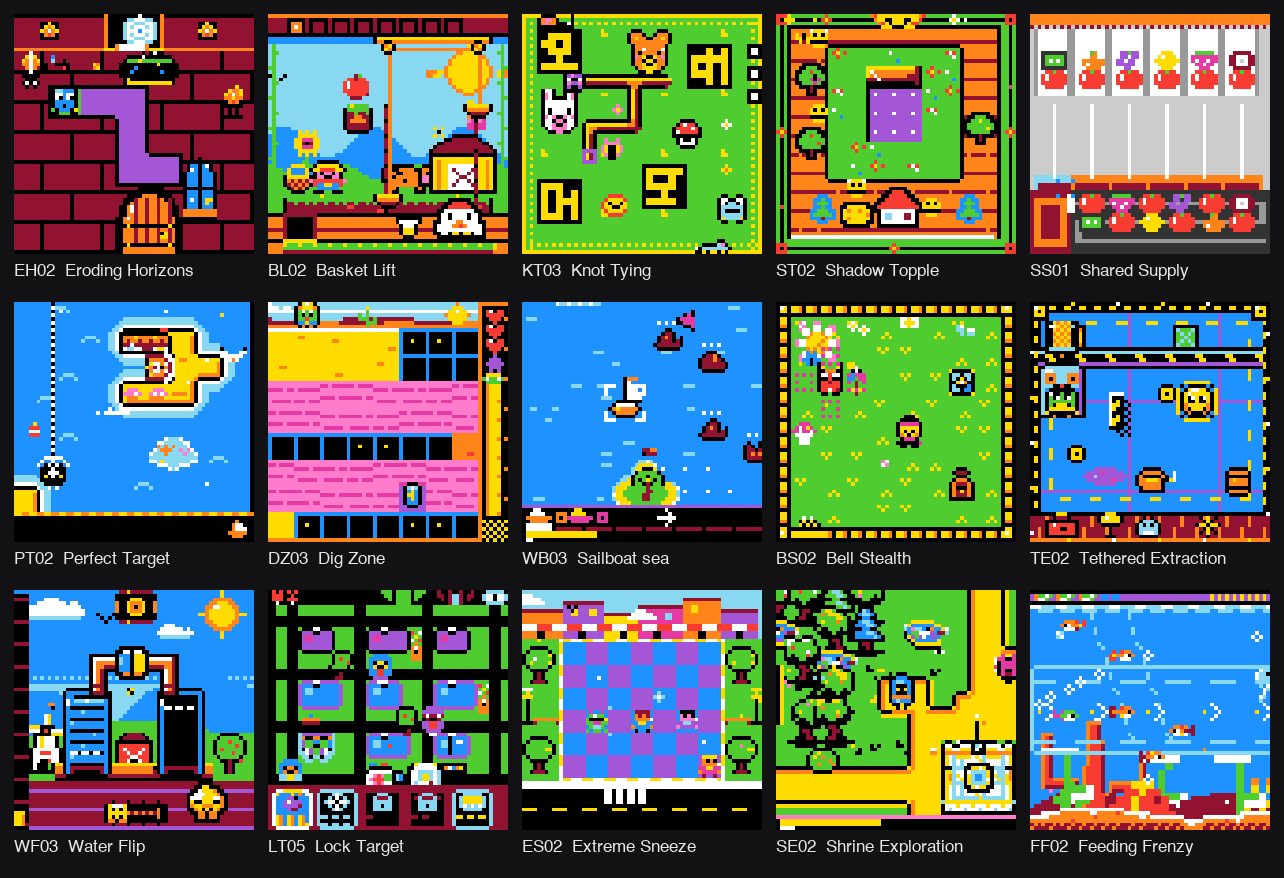
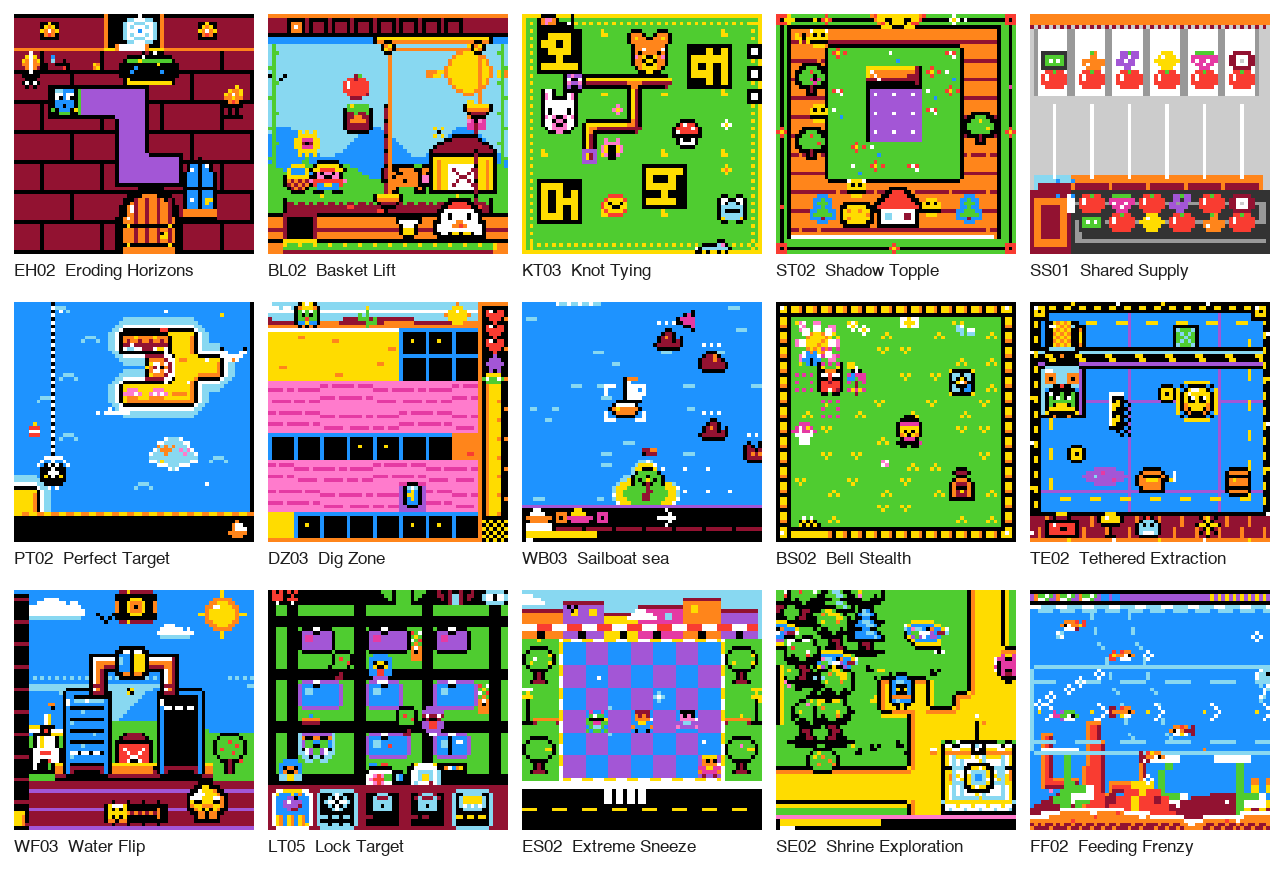
Paper Track Plan B public reference pages and figures (#489)
* Human-learning paper preview v9: add synthetic-games why-page material

* Paper Track v10 preview: The Ruler Is a Person (Claude Fable 5.2)

* Paper Track: handoff for the next assistant (argument, rubric map, adversarial checks)

* Paper Track v11 preview: Out of My Depth, and handoff update (Claude Fable 5.2)

* Paper Track v12 preview: Out of My Depth revised (acquire and keep, agency, Freire)

* Paper Track v13 preview: Out of My Depth on the primary Freire text, agency separated, hostile-read fixes

* Host Paper Track Plan B figures publicly for the Kaggle write-up

* Paper Track Plan B public evidence and trace pages, arrow chart, white games sheet

---------

Changed region(s): [[0.0, 0.0, 1.0, 1.0]]

diff --git a/client/public/specials/arc-paper-sk48-trace-note.html b/client/public/specials/arc-paper-sk48-trace-note.html
@@ -1,0 +1,46 @@
+<!doctype html>
+<!-- Author: Claude Sonnet 5.5 Low; Date: 09-November-2026; PURPOSE: public reference page for the ARC Prize 2026 Paper Track write-up by Team Turducken. SRP/DRY check: Pass - static page, reuses the plain specials reading style. -->
+<html lang="en"><head><meta charset="utf-8"><meta name="viewport" content="width=device-width, initial-scale=1"><meta name="robots" content="noindex, nofollow">
+<title>sk48: the system prompt argues against the game&#x27;s own mechanic</title><meta name="description" content="Trace analysis of one game where general HUD advice in our prompt conflicted with the game mechanic."><style>body{margin:0;background:#fff;color:#1a1a1a;font:18px/1.6 Charter,"Iowan Old Style",Georgia,serif}
+main{max-width:46rem;margin:0 auto;padding:40px 20px 80px}h1,h2{font-family:-apple-system,system-ui,Helvetica,Arial,sans-serif;line-height:1.25}
+h1{font-size:1.8rem}h2{font-size:1.25rem;margin-top:2em}table{border-collapse:collapse;width:100%;font-size:.92rem;margin:1em 0}
+td,th{border-bottom:1px solid #ddd;padding:6px 8px;text-align:left;vertical-align:top}code{font:.85em ui-monospace,Menlo,monospace}
+blockquote{margin:0 0 1em;padding-left:1em;border-left:3px solid #ccc;color:#333}.note{font-size:.85rem;color:#666}</style></head><body><main>
+<p class="note">Reference note for the ARC Prize 2026 Paper Track write-up by Team Turducken. September 2026.</p><h1>sk48 ("Skewer Kebabs") — the system prompt argues against the game's own mechanic</h1>
+<p>Third companion doc. Four traces now: <code>astra-fctx-comb-w5-r4</code> (2 levels), <code>sym264-w5</code> (2), <code>sym264-w7</code> (0), <code>cleanrem132-w11-r3</code> (1 level, score 1.615).</p>
+<h2>The mechanic, restated</h2>
+<p>A rigid segmented rod extends and retracts from a magenta head. Blocks are <b>skewered</b> onto it — trapped against a wall and pierced — after which they travel with the rod. The strip along the bottom of the screen is the <b>required order</b>. The rod is solid and can push things. Access is tip-only, so a loaded rod behaves as a stack.</p>
+<p>Level 4 makes the stack explicit: the rod arrives pre-loaded and two ceiling-mounted rods each demand a different sub-sequence, so the load must be split and transferred in an order that fights the unload order. Level 5 asks for an alternating target (red, blue, red) drawn from a run of three blues already on the rod and three loose reds.</p>
+<h2>The collision</h2>
+<p>Two lines in the live system prompt, quoted from the <code>cleanrem132-w11-r3</code> trace:</p>
+<blockquote>In many games, a long horizontal or vertical line near an edge is a timer or remaining-steps bar. ... do not get distracted by it or treat it as core gameplay state unless there is concrete evidence that it interacts with the puzzle mechanics.</blockquote>
+<blockquote>A common failure mode is to mistake a segmented edge bar for clickable puzzle pieces. If a repeated strip of small blocks sits flush against the top, bottom, left, or right border and actions only change that strip while the interior board stays the same, classify it as HUD/timer state, not as an object to click through segment by segment. <b>DON'T DO THIS!</b></blockquote>
+<p>sk48 puts <b>four</b> long segmented strips on screen:</p>
+<pre style="font-size:.8rem;overflow:auto">| element | what it is | what the prompt's prior suggests |
+|---|---|---|
+| the rod | the entire mechanic | segmented strip of small blocks |
+| vertical bar at cols 13–14 | unknown, near the left edge | "long vertical line near an edge" |
+| bottom strip | the required order — the goal | "repeated strip flush against the bottom border" |
+| row 53 separator | genuinely a timer bar | correctly a timer bar |</pre>
+<p>One of the four is what the rule is for. The rule fires on the other three.</p>
+<p>It fires observably. <code>sym264-w5</code>, mid-run:</p>
+<blockquote>Also there's a vertical segmented bar at col 13-14, rows 14-35 — like a "ruler" perhaps indicating a target length? <b>Or maybe that's a HUD (a remaining-steps bar)</b></blockquote>
+<p>And the bottom strip — the goal specification — is downgraded to decoration by two of four runs (see <code>2026-09-11-sk48-mental-models.md</code>), in the exact vocabulary the prompt supplies: legend, palette, HUD.</p>
+<p><b>Care with this claim.</b> The literal wording requires *flush against a border* and *actions only change that strip*, and the rod is mid-board, so no run cited the rule to dismiss the rod itself. The problem is the prior, not the letter: the prompt spends two emphatic paragraphs, one ending in <code>DON'T DO THIS!</code>, teaching that long segmented lines are not gameplay — to an agent about to play a game that is entirely a long segmented line. <code>cleanrem132-w11-r3</code> is the counter-example worth noting: it committed early —</p>
+<blockquote>The bar is a legend explaining the mechanic: "collect in this order."</blockquote>
+<p>— and cleared a level.</p>
+<h2>Level transitions are not reliably noticed</h2>
+<p>Checked each run's thinking on the turn its level counter advanced, for any mention of the level changing:</p>
+<pre style="font-size:.8rem;overflow:auto">| run | level 1→2 at | mentions the transition that turn |
+|---|---|---|
+| `cleanrem132-w11-r3` | step 22 | yes (3) — "Level 1 completed with chain R@2,N@3,b@4" |
+| `astra-fctx-comb` | step 17 | yes (2) — "my model's grip relation for level 2 ... Let me recheck" |
+| `sym264-w5` | step 24 | **no (0)** |</pre>
+<p><code>sym264-w5</code> — one of only two runs in 363 to clear two levels — is mid beam-search on a now-stale start state when the level changes, and does not register it:</p>
+<blockquote>The beam search found a 28-action solution ... Wait — but the start state I used was (6,1,...)</blockquote>
+<p>The other two notice, but notice while still reasoning in level-1 terms, re-checking a carried model rather than re-grounding.</p>
+<h2>What this suggests</h2>
+<p>Three things, in order of cheapness:</p>
+<p>1. <b>Scope the HUD warning.</b> It is stated as a general visual prior and it is wrong for at least one official game. Gate it on evidence ("if actions change only that strip and nothing else for N turns") rather than on appearance. 2. <b>Make a level change a hard re-ground.</b> An explicit signal that the level advanced, and an instruction to re-derive the objective rather than carry the previous level's rule set, would have caught <code>sym264-w5</code> planning against a dead state. 3. <b>Nothing in any of the four traces forms a stack.</b> Level 4 needs ordered carriage with tip-only access; level 5 needs interleaving two colour runs. The metaphors reached — pen, tongue, impaling wire — none carry an ordering discipline. If the difficulty curve is a stack-sorting curve, the ceiling is not perception.</p>
+<p>Caveat as ever: four traces, one game.</p>
+</main></body></html>

diff --git a/client/public/specials/arc-paper-evidence.html b/client/public/specials/arc-paper-evidence.html
@@ -1,0 +1,27 @@
+<!doctype html>
+<!-- Author: Claude Sonnet 5.5 Low; Date: 09-November-2026; PURPOSE: public reference page for the ARC Prize 2026 Paper Track write-up by Team Turducken. SRP/DRY check: Pass - static page, reuses the plain specials reading style. -->
+<html lang="en"><head><meta charset="utf-8"><meta name="viewport" content="width=device-width, initial-scale=1"><meta name="robots" content="noindex, nofollow">
+<title>Evidence notes: Abundant Tokens and Generalized Tools</title><meta name="description" content="Figures and sources behind the Team Turducken ARC Prize 2026 Paper Track write-up."><style>body{margin:0;background:#fff;color:#1a1a1a;font:18px/1.6 Charter,"Iowan Old Style",Georgia,serif}
+main{max-width:46rem;margin:0 auto;padding:40px 20px 80px}h1,h2{font-family:-apple-system,system-ui,Helvetica,Arial,sans-serif;line-height:1.25}
+h1{font-size:1.8rem}h2{font-size:1.25rem;margin-top:2em}table{border-collapse:collapse;width:100%;font-size:.92rem;margin:1em 0}
+td,th{border-bottom:1px solid #ddd;padding:6px 8px;text-align:left;vertical-align:top}code{font:.85em ui-monospace,Menlo,monospace}
+blockquote{margin:0 0 1em;padding-left:1em;border-left:3px solid #ccc;color:#333}.note{font-size:.85rem;color:#666}</style></head><body><main>
+<p class="note">Reference page for the ARC Prize 2026 Paper Track write-up "Abundant Tokens and Generalized Tools". Team Turducken, 9 November 2026.</p>
+<h1>Evidence notes</h1>
+<p>These notes list the figures used in the write-up and where each comes from. They are our own records, not independently reproduced results. Public leaderboard scores are public scores only; we have not seen the private leaderboard.</p>
+<h2>1. Notebooks and scores</h2>
+<ul><li><b>Earlier system:</b> public score 56.02 (submitted 23 October), <a href="https://www.kaggle.com/code/sonphamorg/arc3-daniel-k44c341l32nhtgm180t5cnp3o34-ct1?scriptVersionId=361507979">notebook version 361507979</a>.</li>
+<li><b>Later harness:</b> public score 53.70 (submitted 28 October), <a href="https://www.kaggle.com/code/sonphamorg/arc3-daniel-cnp3k5mx-ff-nosplice-o34g?scriptVersionId=363005415">notebook version 363005415</a>. It is the earlier system plus expert-kernel rounding and other kernel and serving changes, scorecard keep-alive and a fair-floor scheduling queue, with no cache splice. The same package resubmitted unchanged scored 50.34 (30 October).</li></ul>
+<h2>2. Configuration</h2>
+<p>Qwen3.8-Flash-Next with Intel four-bit AutoRound weights, Daniel Franzen's SGLang serving fork and Milestone 2 harness; one RTX PRO 6000 (96 GB); 110 hidden games per scored run in about nine hours (the recorded 56.02 run took 9 h 13 min). Sampling: temperature 0.5, top-p 0.95, top-k 20. Context window 140,000 tokens; a trim keeps the system prompt, the notes and the last 52,000 tokens. Tool output is capped near 3,072 tokens and each Python call at 30 seconds.</p>
+<h2>3. Throughput and token budget</h2>
+<p>Whole-run throughput on the local 50-game board rose from 605 tokens per second (Franzen's notebook) to 2,150 generated tokens per second (the 56.02 configuration). The budget in the write-up is an extrapolation: 2,150 × 9 × 3,600 ≈ 69.7 million generated tokens, or about 633,000 per game if shared equally across 110 games. It is not a measured Kaggle allocation, because games share the GPU and use different amounts of time.</p>
+<h2>4. Within-run score climbs (Figure 1)</h2>
+<p>All finished runs on our 50-game board (25 public games and 25 copycat variants) that reached 200 minutes: 321 runs. Selection is by completion only, not by score; failed or shorter runs are excluded. Many configurations and repeats are pooled, so this is not a treatment comparison. Scores are linearly interpolated to whole minutes, and unplayed games count as zero. Median board score: 45.18 at minute 100 and 60.93 at minute 200. Median actions per run: 12,415 and 22,105. Action counts are not token counts, and the curves do not separate game difficulty from scheduling.</p>
+<h2>5. Memory-bundle comparison (Figure 2)</h2>
+<p>Same 50-game board, 14 October, 200-minute runs: four base runs against six runs with notes or a dictionary store, retained functions and a batching instruction switched on together. Mean score at minute 200: 55.85 against 59.04, a gain of 3.2 points (95% interval −2.0 to +8.3; permutation p ≈ 0.09). The gain was larger on the copycat games (+4.9) than on the official games (+1.5), a split made after the fact. Because the three additions were enabled together, this is not an ablation of any one of them, and it is not a Kaggle score curve.</p>
+<h2>6. Fourteen paired local and Kaggle comparisons (Figure 3)</h2>
+<p>Each row compares a package against its own predecessor or control, in score points. Local game sets differ between rows (including a 32-game set and a copycat subset), and packages bundle several changes. Twelve rows improved locally; three of those also improved on Kaggle; a fourth Kaggle gain (the speed package) had a negative local change. Our local repeat standard deviation is 1.9 points over eight identical controls; the unchanged package moved from 53.70 to 50.34 on resubmission. Full discussion: <a href="https://arc.markbarney.net/specials/2026-11-06-arc3-solution-draft.html">our engineering record</a>.</p>
+<table><tr><th>Package</th><th>Local</th><th>Public Kaggle</th></tr><tr><td>Notes + exact draft acceptance + drafter changes</td><td>+2.8</td><td>+8.8</td></tr><tr><td>Context window + memory slots + temperature</td><td>+4.3</td><td>+5.4</td></tr><tr><td>Serving and scheduling speed package (the 56.02 system)</td><td>−1.0</td><td>+3.2</td></tr><tr><td>Notes head/tail display + out-of-memory fixes</td><td>+1.3</td><td>+1.7</td></tr><tr><td>Goal-first planning</td><td>+2.9</td><td>−1.5</td></tr><tr><td>Expert-kernel rounding + keep-alive + scheduling gate (the later 53.70 system)</td><td>+0.2</td><td>−2.3</td></tr><tr><td>Relaxed draft acceptance + drafter</td><td>+5.0</td><td>−3.5</td></tr><tr><td>Vocabulary trim alone</td><td>−0.2</td><td>−3.8</td></tr><tr><td>Summarize instead of trimming history</td><td>+0.7</td><td>−4.4</td></tr><tr><td>Predict before acting (copycat games)</td><td>+0.7</td><td>−11.5</td></tr><tr><td>Predict before acting, second comparison</td><td>+2.3</td><td>−4.6</td></tr><tr><td>Splice cached history + vocabulary trim</td><td>+0.4</td><td>−5.3</td></tr><tr><td>Splice cached history + keep-alive</td><td>+2.6</td><td>−8.7</td></tr><tr><td>Lean turn messages + vocabulary trim</td><td>+1.9</td><td>−9.6</td></tr></table>
+<p>Three further Kaggle results had no matching local test and are excluded from the fourteen: two reinforcement-learning adapters (−1.7 and −8.1) and the unchanged resubmission (−3.4).</p>
+</main></body></html>

diff --git a/CHANGELOG.md b/CHANGELOG.md
@@ -1,3 +1,7 @@
+### Version 9.164.32 · November 9, 2026
+
+- Paper Track Plan B public reference pages and figures (unlisted, noindex): `/specials/arc-paper-evidence.html` (clean evidence summary: notebooks and scores, configuration, token arithmetic, climb method verified against the archived run data, memory comparison, fourteen paired comparisons), `/specials/arc-paper-sk48-trace-note.html` (the team's sk48 trace note), the transfer chart with arrows and the games contact sheet on a white background under `/specials/arc-paper-figures/`. Published through the fast-publish route. Author: Claude Sonnet 5.5.
+
 ### Version 9.164.31 · November 9, 2026
 
 - Public hosting for the Paper Track Plan B figures so the Kaggle write-up can embed them: four PNGs under `/specials/arc-paper-figures/` (within-run climbs, memory-bundle comparison, fourteen paired local-versus-Kaggle comparisons, fifteen-game contact sheet). Files only, noindex by being unlinked; replaced at the same address when the figures change. Published through the fast-publish route. Author: Claude Sonnet 5.5.
